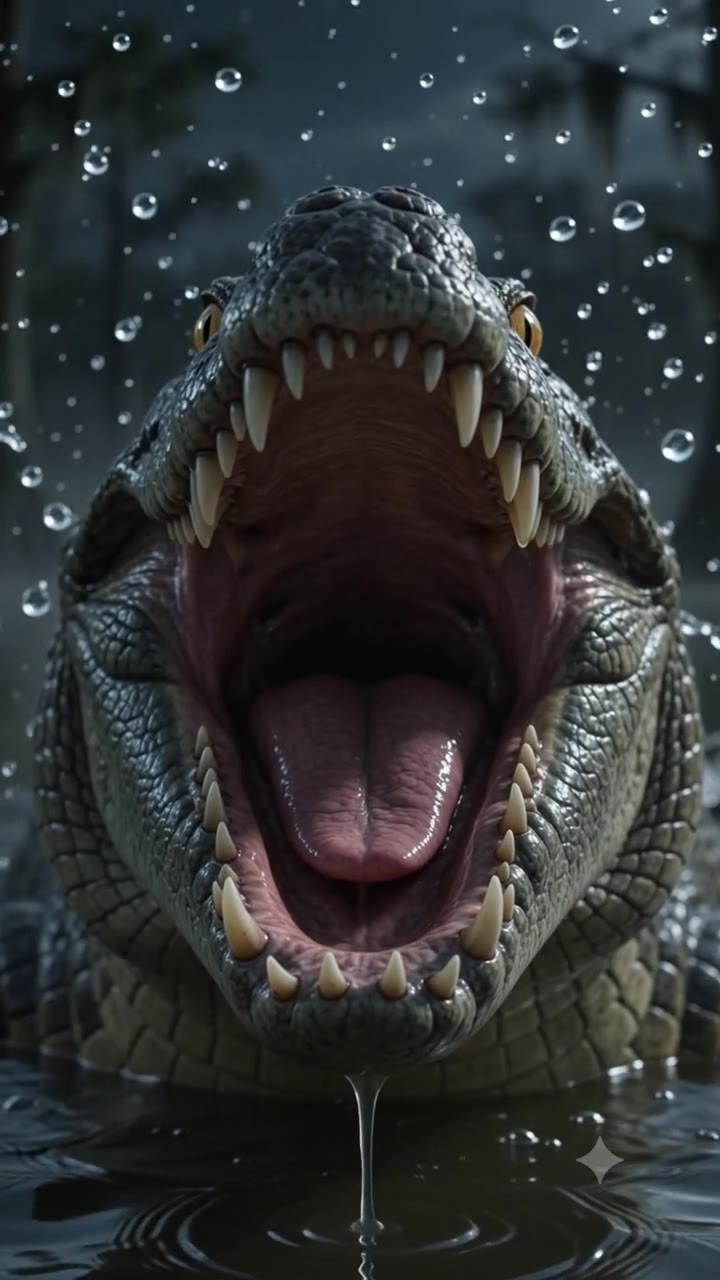
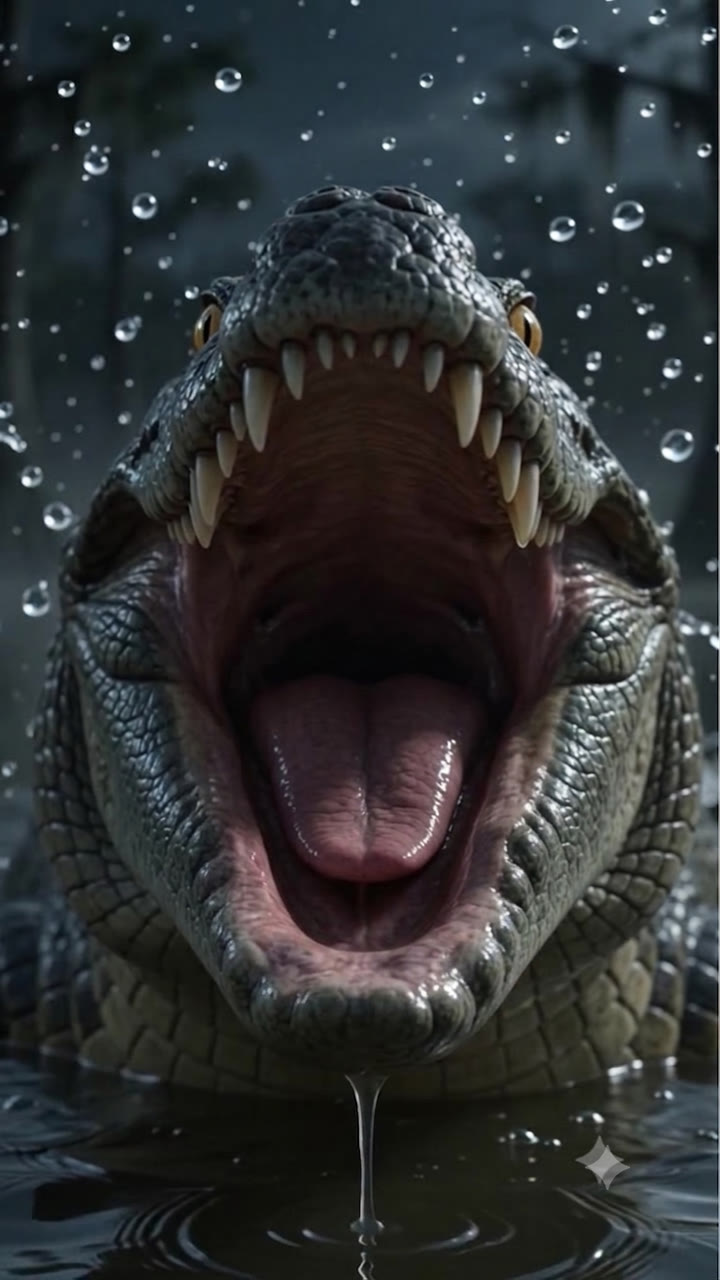
🦷 악어: 빈 잇몸 사진에 '진짜 이빨' 심기 (누르면 잇몸 속으로 사라짐)
아랫니를 지운 사진을 받아 그 잇몸선 위에 실제 이빨 오브젝트를 생성한다.
마커를 얹던 방식과 달리, 이빨이 진짜로 잇몸 속으로 쑥 들어가 사라진다.

- stage/crocodile.jpg 를 아랫니 제거본으로 교체(720x1280)
- PHOTO.crocodile.emptyGums=true → 진짜 이빨 렌더 경로
  · 잇몸선 아치를 클립으로 삼아, 눌린 이빨이 잇몸 아래로 사라짐
  · 바깥 송곳니가 길고 중앙이 짧은 악어 형태 + 개체별 크기 편차
  · 뿌리 그림자·좌측 하이라이트·우측 음영으로 입체감
  · 내 차례에만 이빨 뒤 후광이 은은히 점멸
- 상어·티라노는 아직 원본 사진이라 기존 마커 방식 유지 (emptyGums 없음)
- 연출 종료 시 photoReset() 으로 사진 밝기·확대 강제 원복
  (chomp-fake 의 어두운 상태가 중간값에 멈추던 문제 수정)

Claude-Session: https://claude.ai/code/session_01UJwqYzMMGYRXB3YFK3Gp7D

diff --git a/apps/crocodile/public/croc-client.js b/apps/crocodile/public/croc-client.js
@@ -405,10 +405,12 @@
   //  누를 수 있는 이빨을 얹는다. 좌표는 사진(720×1280) 기준.
   //   arch: 아랫니 뿌리(잇몸선) 아치 — [왼쪽x, 왼쪽y, 중앙x, 중앙y(제어점), 오른쪽x, 오른쪽y]
   // ═══════════════════════════════════════════════════════════
+  //   emptyGums: 아랫니를 지운 사진 → 진짜 이빨 오브젝트를 심는다(누르면 잇몸 속으로 사라짐)
+  //   (없으면 사진의 실제 이빨 위에 마커만 얹는 방식)
   const PHOTO = {
-    crocodile: { src: '/crocodile/stage/crocodile.jpg', arch: [232, 934, 366, 1064, 502, 940], toothH: 96, toothW: 0.72, bandUp: 175, bandDown: 210 },
-    shark:     { src: '/crocodile/stage/shark.jpg',     arch: [228, 820, 370, 852, 526, 812],  toothH: 78, toothW: 0.62, bandUp: 150, bandDown: 200 },
-    dino:      { src: '/crocodile/stage/dino.jpg',      arch: [256, 908, 372, 992, 490, 916],  toothH: 104, toothW: 0.78, bandUp: 185, bandDown: 205 },
+    crocodile: { src: '/crocodile/stage/crocodile.jpg', arch: [222, 952, 360, 1002, 488, 950], toothH: 100, toothW: 0.56, emptyGums: true },
+    shark:     { src: '/crocodile/stage/shark.jpg',     arch: [228, 820, 370, 852, 526, 812],  toothH: 78, toothW: 0.62 },
+    dino:      { src: '/crocodile/stage/dino.jpg',      arch: [256, 908, 372, 992, 490, 916],  toothH: 104, toothW: 0.78 },
   };
   const PW = 720, PH = 1280; // 사진 좌표계
   // 아치(2차 베지어) 위의 점 — t: 0(왼쪽)~1(오른쪽)
@@ -425,8 +427,52 @@
     const cfg = photoCfg(); if (!cfg) return;
     const gum = el('photo-gum'), teeth = el('photo-teeth'), a = cfg.arch;
     gum.innerHTML = ''; teeth.innerHTML = '';
-    // 사진은 그대로 둔다 — 실제 이빨 아치 위에 '누를 수 있는' 마커만 얹는다.
-    // 누르면 그 자리에 이빨이 뽑힌 듯한 검은 구멍이 남는다.
+
+    // 🦷 아랫니를 지운 사진 → 잇몸선 위에 '진짜 이빨'을 심는다.
+    //    누르면 잇몸 속으로 실제로 쑥 들어가 사라진다 (아치 클립).
+    if (cfg.emptyGums) {
+      el('pGumClipPath').setAttribute('d',
+        `M-200,-400 L${PW + 200},-400 L${PW + 200},${a[5] + 6} `
+        + `Q${a[2]},${a[3] + 6} ${a[0] - 200},${a[1] + 6} Z`);
+      teeth.setAttribute('clip-path', 'url(#pGumClip)');
+      const sp = Math.abs(a[4] - a[0]) / Math.max(1, n - 1);
+      const w0 = Math.max(15, sp * cfg.toothW);
+      for (let i = 0; i < n; i++) {
+        const t = n <= 1 ? 0.5 : i / (n - 1);
+        const p = archPoint(a, t);
+        // 악어는 바깥쪽 송곳니가 길고 중앙이 짧다 + 개체차
+        const h = cfg.toothH * (0.55 + 0.62 * Math.abs(t - 0.5) * 2) * (0.8 + 0.32 * (((i * 53 + 17) % 11) / 10));
+        const w = w0 * (0.86 + 0.28 * Math.abs(t - 0.5) * 2);
+        const g = svgEl('g', { class: 'tooth', 'data-i': i, transform: `translate(${p.x.toFixed(1)},${p.y.toFixed(1)})` });
+        g.appendChild(svgEl('rect', { class: 'tooth-hit', x: -w * 0.8, y: -h - 6, width: w * 1.6, height: h + 22, fill: 'transparent' }));
+        const inner = svgEl('g', { class: 'tooth-inner' });
+        // 내 차례 표시용 글로우 (평소엔 CSS 로 숨김)
+        inner.appendChild(svgEl('ellipse', { class: 'tooth-glow', cx: 0, cy: -h * 0.52, rx: w * 1.15, ry: h * 0.66, fill: 'rgba(255,236,170,.24)' }));
+        // 잇몸에 박힌 뿌리 그림자
+        inner.appendChild(svgEl('ellipse', { cx: 0, cy: -2, rx: w * 0.56, ry: 9, fill: 'rgba(60,20,26,.75)' }));
+        // 이빨 본체
+        inner.appendChild(svgEl('path', {
+          d: toothPath(w, h, false, 'conic'),
+          fill: 'url(#pTooth)', stroke: 'rgba(86,66,44,.5)', 'stroke-width': 1.4,
+        }));
+        // 왼쪽 하이라이트 + 오른쪽 음영 (입체감)
+        inner.appendChild(svgEl('path', {
+          d: `M${-w * 0.19},${-h * 0.12} Q${-w * 0.1},${-h * 0.58} ${-w * 0.02},${-h * 0.85}`,
+          fill: 'none', stroke: 'rgba(255,255,255,.6)', 'stroke-width': w * 0.15, 'stroke-linecap': 'round',
+        }));
+        inner.appendChild(svgEl('path', {
+          d: `M${w * 0.26},${-h * 0.1} Q${w * 0.17},${-h * 0.5} ${w * 0.05},${-h * 0.8}`,
+          fill: 'none', stroke: 'rgba(90,70,45,.28)', 'stroke-width': w * 0.13, 'stroke-linecap': 'round',
+        }));
+        g.appendChild(inner);
+        g.addEventListener('click', () => onToothClick(i));
+        teeth.appendChild(g);
+      }
+      return;
+    }
+
+    // (사진에 이빨이 그대로 있는 캐릭터) 실제 이빨 위에 마커만 얹는다
+    teeth.removeAttribute('clip-path');
     const spacing = Math.abs(a[4] - a[0]) / Math.max(1, n - 1);
     const w = Math.max(16, spacing * cfg.toothW);
     const h = cfg.toothH;
@@ -729,6 +775,7 @@
     state.photo = PHOTO[room.character] || null;
     el('stage').classList.toggle('photo', !!state.photo);
     el('photo-stage').classList.toggle('on', !!state.photo);
+    el('photo-stage').classList.toggle('real-teeth', !!(state.photo && state.photo.emptyGums));
     if (state.photo) {
       const img = el('photo-bg');
       if (img.getAttribute('src') !== state.photo.src) img.setAttribute('src', state.photo.src);
@@ -1137,7 +1184,8 @@
     if (inner && inner.parentElement.classList.contains('pressed')) return;
     // 즉시 잠금 + 살짝 눌린 피드백 (서버 이벤트가 본 연출을 재생)
     lockInput(true);
-    if (inner) inner.style.transform = photoCfg() ? 'scale(.82)' : 'translateY(6px)';
+    const pcf = photoCfg();
+    if (inner) inner.style.transform = (pcf && !pcf.emptyGums) ? 'scale(.82)' : 'translateY(6px)';
     sfx.tick();
     socket.emit('croc:press', { tooth: i });
     // 안전망: 서버가 이 press 를 무시했다면(스테일 턴 등) 잠금이 영원히 안 풀리는 것 방지
@@ -1156,7 +1204,17 @@
     if (!g) return;
     g.classList.add('pressed');
     g.classList.remove('pressable');
-    if (photoCfg()) {
+    const pc = photoCfg();
+    if (pc && pc.emptyGums) {
+      // 🦷 진짜 이빨이 잇몸 속으로 쑥 — 아치 클립 덕분에 잇몸선 아래로 사라진다
+      const inner0 = g.querySelector('.tooth-inner');
+      if (inner0) inner0.animate(
+        [{ transform: 'translateY(0)' }, { transform: 'translateY(-6px)', offset: 0.12 }, { transform: 'translateY(150px)' }],
+        { duration: 380, easing: 'cubic-bezier(.4,0,.3,1)', fill: 'forwards' }
+      );
+      return;
+    }
+    if (pc) {
       // 마커는 아래로 쏙 꺼지고, 그 자리에 이빨 빠진 자국이 드러난다
       const inner0 = g.querySelector('.tooth-inner');
       const hole = g.querySelector('.tooth-hole');
@@ -1199,8 +1257,19 @@
     const a = img.animate(frames, { duration: dur, easing: easing || 'ease-in-out', fill: 'forwards' });
     return a.finished.catch(() => {});
   }
+  // 연출이 끝나면 사진을 원래 상태로 (밝기·확대가 중간값에 멈추는 것 방지)
+  function photoReset() {
+    const img = el('photo-bg');
+    if (!img) return;
+    img.getAnimations().forEach((a) => a.cancel());
+    img.style.transform = '';
+    img.style.filter = '';
+  }
   // 실사 무대 드라마 — 사진을 다가오게/흔들리게 해서 '물 것 같은' 긴장을 만든다
   async function playPhotoDrama(kind, i) {
+    try { await playPhotoDramaInner(kind, i); } finally { photoReset(); }
+  }
+  async function playPhotoDramaInner(kind, i) {
     const n = state.teeth;
     const tip = photoToothTip(i, n);
     switch (kind) {
@@ -1649,7 +1718,12 @@
     const g = toothAt(i);
     if (g && !g.classList.contains('pressed')) {
       g.classList.add('pressed'); g.classList.remove('pressable');
-      if (photoCfg()) {
+      const pcm = photoCfg();
+      if (pcm && pcm.emptyGums) {
+        const i0 = g.querySelector('.tooth-inner'); if (i0) i0.style.transform = 'translateY(150px)';
+        return;
+      }
+      if (pcm) {
         const i0 = g.querySelector('.tooth-inner'); if (i0) i0.style.opacity = '0';
         const h0 = g.querySelector('.tooth-hole'); if (h0) h0.setAttribute('opacity', '1');
         return;

diff --git a/apps/crocodile/public/croc-style.css b/apps/crocodile/public/croc-style.css
@@ -182,13 +182,19 @@ input:focus { outline: 2px solid var(--gold); outline-offset: 1px; }
 .photo-stage img { width: 100%; height: 100%; object-fit: cover; display: block; will-change: transform, filter; }
 .photo-stage #photo-svg { position: absolute; inset: 0; width: 100%; height: 100%; pointer-events: none; }
 .photo-stage #photo-teeth .tooth.pressable { pointer-events: auto; cursor: pointer; }
-/* 실사 무대의 이빨 마커: 평소엔 안 보이고, 내 차례에만 은은히 빛나며 콩닥인다 */
-.photo-stage #photo-teeth .tooth .tooth-inner { opacity: 0; transition: opacity .3s; }
-.photo-stage #photo-teeth .tooth.pressable .tooth-inner { opacity: 1; animation: tooth-mark 1.15s ease-in-out infinite; }
-.photo-stage #photo-teeth .tooth-glow { opacity: 1; }
+/* 사진에 이빨이 남아있는 캐릭터: 마커만 얹으므로 평소엔 숨기고 내 차례에만 빛낸다 */
+.photo-stage:not(.real-teeth) #photo-teeth .tooth .tooth-inner { opacity: 0; transition: opacity .3s; }
+.photo-stage:not(.real-teeth) #photo-teeth .tooth.pressable .tooth-inner { opacity: 1; animation: tooth-mark 1.15s ease-in-out infinite; }
 @keyframes tooth-mark {
   0%, 100% { opacity: .55; transform: scale(.92); }
   50% { opacity: 1; transform: scale(1.06); }
+}
+/* 🦷 진짜 이빨을 심은 캐릭터: 이빨은 항상 보이고, 내 차례에만 뒤 글로우가 켜진다 */
+.photo-stage.real-teeth #photo-teeth .tooth-glow { opacity: 0; transition: opacity .3s; }
+.photo-stage.real-teeth #photo-teeth .tooth.pressable .tooth-glow { opacity: 1; animation: tooth-halo 1.2s ease-in-out infinite; }
+@keyframes tooth-halo {
+  0%, 100% { opacity: .45; }
+  50% { opacity: 1; }
 }
 /* 실사 무대에선 SVG 크리쳐를 감춘다 */
 .stage.photo #scene { display: none; }

diff --git a/apps/crocodile/public/index.html b/apps/crocodile/public/index.html
@@ -138,9 +138,9 @@
                 <stop offset="1" stop-color="var(--p-gum-2)" stop-opacity="0"/>
               </linearGradient>
               <linearGradient id="pTooth" x1="0" y1="0" x2="0.25" y2="1">
-                <stop offset="0" stop-color="#fffdf2"/>
-                <stop offset="0.55" stop-color="#e8dfc4"/>
-                <stop offset="1" stop-color="#a8977a"/>
+                <stop offset="0" stop-color="#fdfaf0"/>
+                <stop offset="0.5" stop-color="#eae2cd"/>
+                <stop offset="1" stop-color="#b6a98c"/>
               </linearGradient>
               <clipPath id="pGumClip"><path id="pGumClipPath" d=""/></clipPath>
             </defs>
